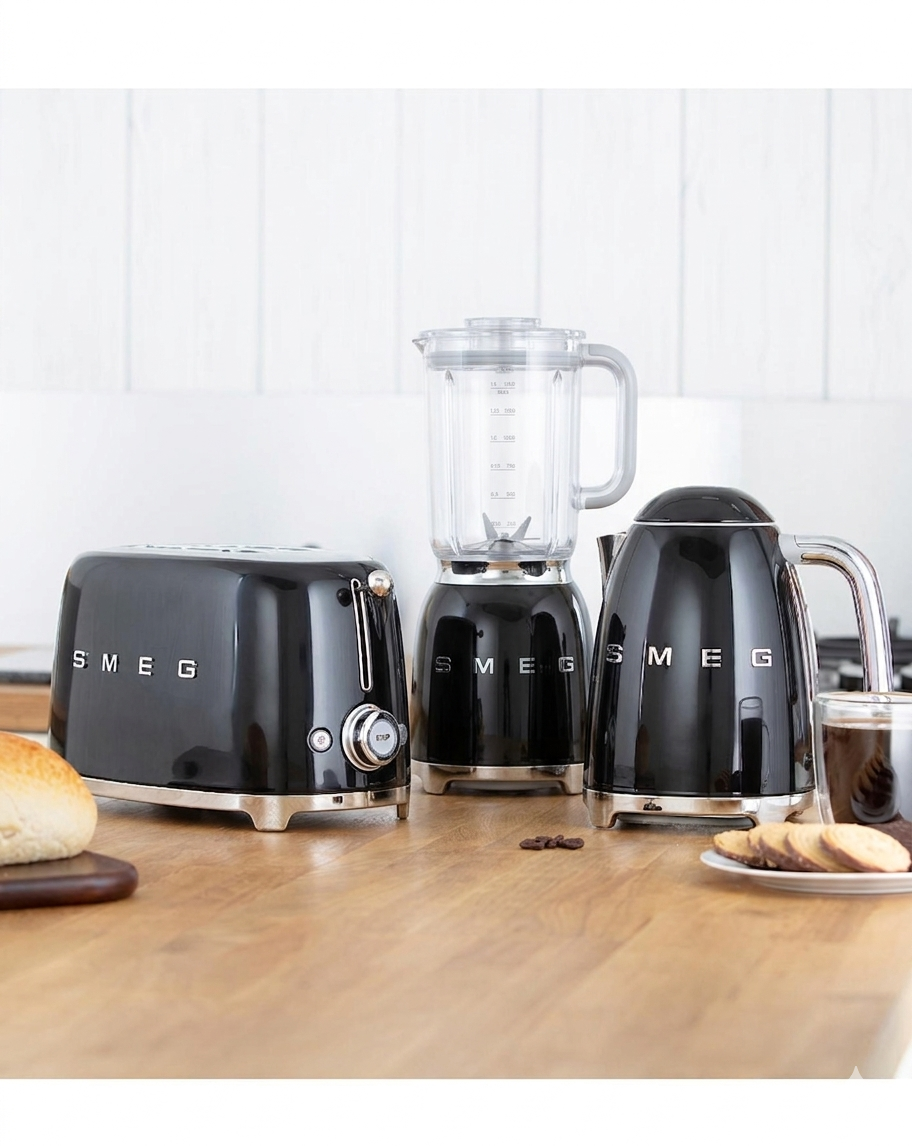
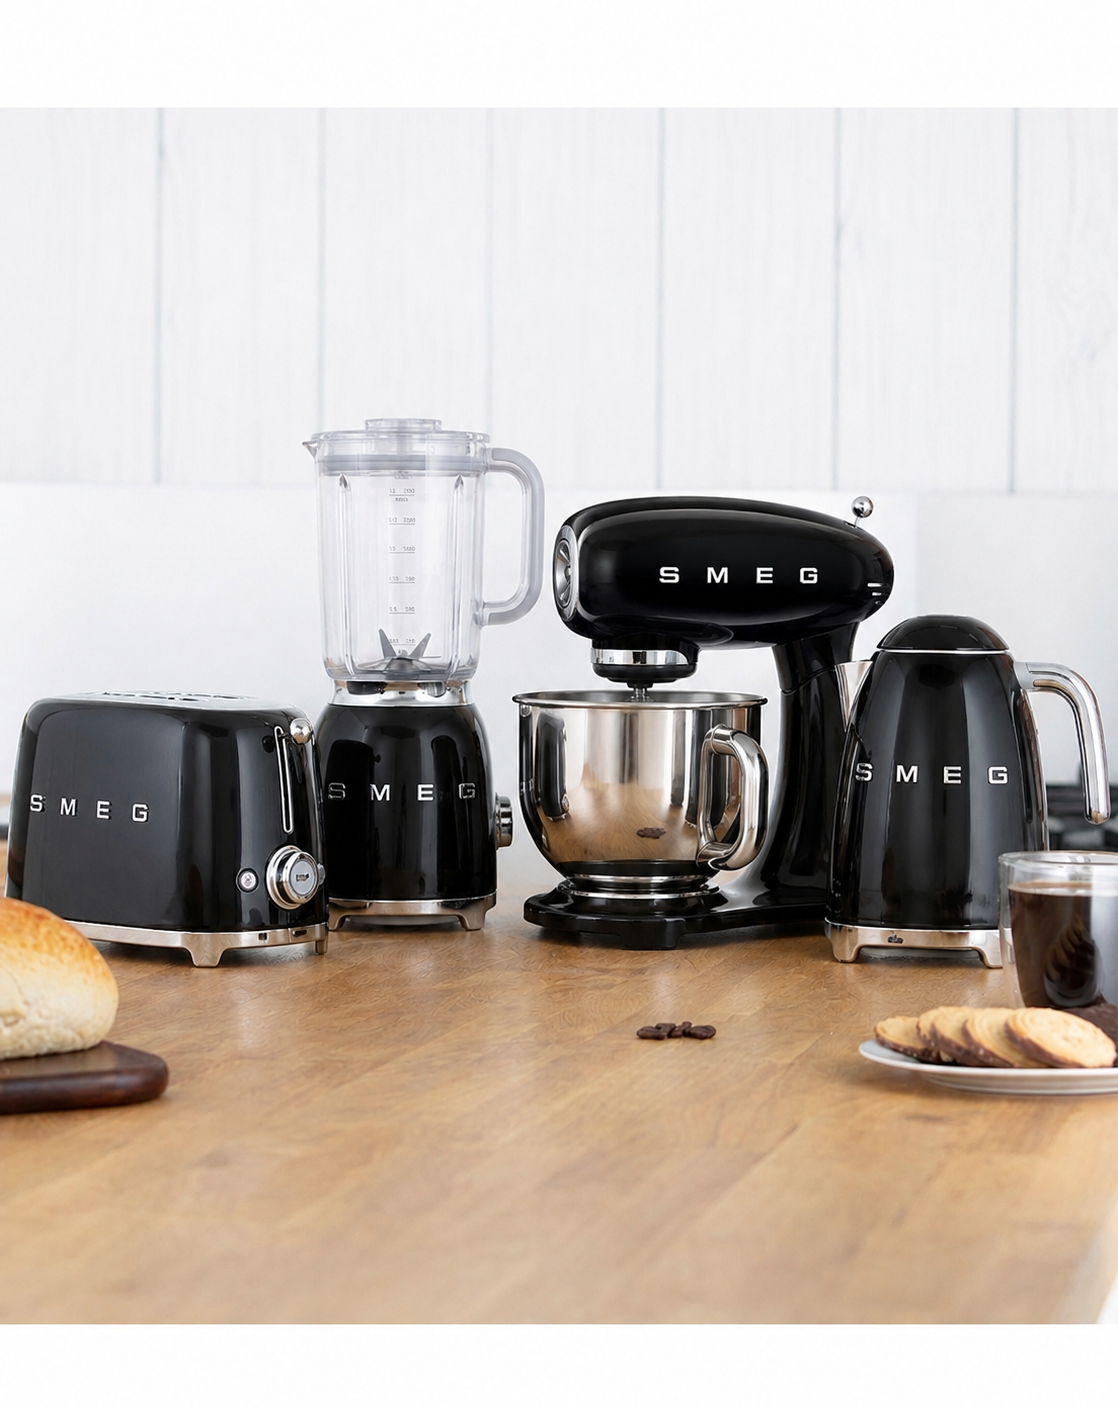
Add files via upload

Changed region(s): [[0.0, 0.2749, 1.0, 0.7941]]

diff --git a/checkout.html b/checkout.html
@@ -1,7 +1,21 @@
 <!DOCTYPE html>
 <html lang="pt">
 <head>
-  <!-- Facebook Pixel Code -->
+  <script>
+    !function(f,b,e,v,n,t,s)
+    {if(f.fbq)return;n=f.fbq=function(){n.callMethod?
+    n.callMethod.apply(n,arguments):n.queue.push(arguments)};
+    if(!f._fbq)f._fbq=n;n.push=n;n.loaded=!0;n.version='2.0';
+    n.queue=[];t=b.createElement(e);t.async=!0;
+    t.src=v;s=b.getElementsByTagName(e);
+    s.parentNode.insertBefore(t,s)
+    }(window, document,'script',
+    'https://connect.facebook.net/en_US/fbevents.js');
+    fbq('init', '2558147041205045');
+    fbq('track', 'PageView');
+    fbq('track', 'InitiateCheckout');
+  </script>
+  <!-- Meta Pixel Code -->
   <script>
     !function(f,b,e,v,n,t,s)
     {if(f.fbq)return;n=f.fbq=function(){n.callMethod?
@@ -9,34 +23,24 @@
     if(!f._fbq)f._fbq=n;n.push=n;n.loaded=!0;n.version='2.0';
     n.queue=[];t=b.createElement(e);t.async=!0;
     t.src=v;s=b.getElementsByTagName(e)[0];
-    s.parentNode.insertBefore(t,s)
-    }(window, document,'script',
+    s.parentNode.insertBefore(t,s)}(window, document,'script',
     'https://connect.facebook.net/en_US/fbevents.js');
-
-    fbq('init', '1238580704010895');
+    fbq('init', '1250642600249561');
     fbq('track', 'PageView');
-    fbq('track', 'ViewContent');
   </script>
-  <!-- End Facebook Pixel Code -->
-
-  <!-- UTMIFY SCRIPT -->
-  <script
-    src="https://cdn.utmify.com.br/scripts/utms/latest.js"
-    data-utmify-prevent-xcod-sck
-    data-utmify-prevent-subids
-    async
-    defer
-  ></script>
-  <!-- END UTMIFY -->
+  <noscript><img height="1" width="1" style="display:none"
+  src="https://www.facebook.com/tr?id=1250642600249561&ev=PageView&noscript=1"
+  /></noscript>
+  <!-- End Meta Pixel Code -->
+  
+  <script src="https://cdn.utmify.com.br/scripts/utms/latest.js" async defer></script>
   <script>
-  window.pixelId = "69f3308425c7d3cc4f8da0a2";
-  var a = document.createElement("script");
-  a.setAttribute("async", "");
-  a.setAttribute("defer", "");
-  a.setAttribute("src", "https://cdn.utmify.com.br/scripts/pixel/pixel.js");
-  document.head.appendChild(a);
-</script>
-
+    window.pixelId = "67918adf0b80f52dd2589822";
+    var a = document.createElement("script");
+    a.setAttribute("async", ""); a.setAttribute("defer", "");
+    a.setAttribute("src", "https://cdn.utmify.com.br/scripts/pixel/pixel.js");
+    document.head.appendChild(a);
+  </script>
 <meta charset="UTF-8">
 <meta name="viewport" content="width=device-width, initial-scale=1.0">
 <title>Checkout - Delivery Details</title>
@@ -173,9 +177,9 @@ body{
 <h2>Delivery Details</h2>
 
 <div class="product-summary">
-  <img id="summaryImg" src="p1.png" alt="Product">
+  <img id="summaryImg" src="smeg-black.jpg" alt="Product">
   <div class="product-summary__info">
-    <div class="product-summary__name">Smeg 3-Piece Breakfast Set 2-Slice Toaster, 1.7L Kettle &amp; Blender</div>
+    <div class="product-summary__name">Smeg 4-Piece Kitchen Set – 2-Slice Toaster, 1.7L Kettle, Blender & Stand Mixer &amp;</div>
     <div class="product-summary__color">
       <span class="product-summary__dot" id="summaryDot"></span>
       <span id="summaryColorName">Black</span>
@@ -233,9 +237,9 @@ Next Business Day Delivery • Free
 </div>
 
 <div style="display:flex;gap:12px;margin-top:12px;align-items:center;">
-  <img id="reviewProductImg" src="p1.png" style="width:60px;height:60px;object-fit:contain;border:1px solid #eee;border-radius:6px;">
+  <img id="reviewProductImg" src="smeg-black.jpg" style="width:60px;height:60px;object-fit:contain;border:1px solid #eee;border-radius:6px;">
   <div id="orProductName" style="font-size:14px;font-weight:700;">
-    Smeg 3-Piece Breakfast Set 2-Slice Toaster, 1.7L Kettle &amp; Blender - Black
+    Smeg 4-Piece Kitchen Set – 2-Slice Toaster, 1.7L Kettle, Blender & Stand Mixer &amp; - Black
   </div>
 </div>
 
@@ -270,11 +274,11 @@ const selectedColor = new URLSearchParams(window.location.search).get("color") |
 
 // Inicializa nome e imagem do produto com a cor recebida
 const colorFirstImg = {
-  "Black":       "p1.png",
-  "Cream":       "91eYg.jpg",
-  "Pastel Blue": "MV1XU.jpg",
-  "Pink":        "v40kB.jpg",
-  "Mint Green":  "WhatsApp Image 2026-06-11 at 00.57.51.jpeg",
+  "Black":       "smeg-black.jpg",
+  "Cream":       "smeg-cream.jpg",
+  "Pastel Blue": "smeg-blue.jpg",
+  "Pink":        "smeg-pink.jpg",
+  "Mint Green":  "smeg-green.jpg",
 };
 const colorSwatchBg = {
   "Black":       "#1a1a1a",
@@ -283,7 +287,7 @@ const colorSwatchBg = {
   "Pink":        "#f0a0b8",
   "Mint Green":  "#8dd8c8",
 };
-const productImg    = colorFirstImg[selectedColor] || "p1.png";
+const productImg    = colorFirstImg[selectedColor] || "smeg-black.jpg";
 const reviewProductImg = document.getElementById("reviewProductImg");
 const orProductName    = document.getElementById("orProductName");
 const summaryImg       = document.getElementById("summaryImg");
@@ -357,18 +361,18 @@ openPayment.onclick = ()=>{
 const colorCheckoutURLs = {
   "Black":       "https://app.quorapay.online/pay/0474ce64-e312-43a4-8145-a2984a17cc72",
   "Cream":       "https://app.quorapay.online/pay/ffa4dfea-23c5-4a42-8343-cd18c722c59e",
-  "Pastel Blue": "https://app.quorapay.online/pay/3eba0a91-1374-45e1-b20d-96db5459a2c3",
+  "Pastel Blue": "https://app.quorapay.online/pay/1c47b769-547b-471a-ab23-c5fb2cd497bf",
   "Pink":        "https://app.quorapay.online/pay/bcff871a-a127-4316-9d66-f1d6d5f2e630",
-  "Mint Green":  "https://app.quorapay.online/pay/1c47b769-547b-471a-ab23-c5fb2cd497bf",
+  "Mint Green":  "https://app.quorapay.online/pay/3eba0a91-1374-45e1-b20d-96db5459a2c3",
 };
 
 completePurchase.onclick = () => {
   const url = colorCheckoutURLs[selectedColor] || colorCheckoutURLs["Black"];
-  const params = window.location.search;
-
-  window.location.href = params ? url + params : url;
+  window.location.href = url;
 };
 </script>
 
 </body>
 </html>
+
+

diff --git a/index.html b/index.html
@@ -13,7 +13,7 @@
     }(window, document,'script',
     'https://connect.facebook.net/en_US/fbevents.js');
 
-    fbq('init', '1238580704010895');
+    fbq('init', '2558147041205045');
     fbq('track', 'PageView');
     fbq('track', 'ViewContent');
   </script>
@@ -29,7 +29,7 @@
   ></script>
   <!-- END UTMIFY -->
   <script>
-  window.pixelId = "69f3308425c7d3cc4f8da0a2";
+  window.pixelId = "67918adf0b80f52dd2589822";
   var a = document.createElement("script");
   a.setAttribute("async", "");
   a.setAttribute("defer", "");
@@ -1684,7 +1684,7 @@
   <div class="wrap">
     <section class="hero" aria-label="Product hero">
       <div class="hero__imgbox">
-        <img id="productImage" class="hero__img" src="p1.png" alt="Product image" />
+        <img id="productImage" class="hero__img" src="smeg-black.jpg" alt="Product image" />
 
         <div class="badge-off" aria-label="Discount badge">
           UP TO 74%
@@ -1712,7 +1712,7 @@
 
     <section class="info" aria-label="Product info">
       <div class="title-row">
-        <h1 id="productTitle" class="title">Smeg 3-Piece Breakfast Set 2-Slice Toaster, 1.7L Kettle & Blender - Black</h1>
+        <h1 id="productTitle" class="title">Smeg 4-Piece Kitchen Set – 2-Slice Toaster, 1.7L Kettle, Blender & Stand Mixer – Black</h1>
 
         <button class="share-btn" aria-label="Share">
           <svg class="share-ico" viewBox="0 0 24 24" fill="none" stroke="currentColor" stroke-width="2" stroke-linecap="round" stroke-linejoin="round">
@@ -1740,19 +1740,19 @@
         <label>Colour</label>
         <div class="color-options">
           <div class="color-swatch selected" data-color="Black"       title="Black">
-            <img src="p1.png" alt="Black">
+            <img src="smeg-black.jpg" alt="Black">
           </div>
           <div class="color-swatch" data-color="Cream"       title="Cream">
-            <img src="91eYg.jpg" alt="Cream">
+            <img src="smeg-cream.jpg" alt="Cream">
           </div>
           <div class="color-swatch" data-color="Pastel Blue" title="Pastel Blue">
-            <img src="MV1XU.jpg" alt="Pastel Blue">
+            <img src="smeg-blue.jpg" alt="Pastel Blue">
           </div>
           <div class="color-swatch" data-color="Pink"        title="Pink">
-            <img src="v40kB.jpg" alt="Pink">
+            <img src="smeg-pink.jpg" alt="Pink">
           </div>
           <div class="color-swatch" data-color="Mint Green"  title="Mint Green">
-            <img src="WhatsApp Image 2026-06-11 at 00.57.51.jpeg" alt="Mint Green">
+            <img src="smeg-green.jpg" alt="Mint Green">
           </div>
         </div>
         <div class="color-name-label" id="colorNameLabel">Black</div>
@@ -2306,7 +2306,7 @@
   <!-- Modal fullscreen -->
   <div class="modal" id="modal">
     <button class="modal-close" id="modalClose" aria-label="Close">✕</button>
-    <img id="modalImg" src="p1.png" alt="Expanded product image">
+    <img id="modalImg" src="smeg-black.jpg" alt="Expanded product image">
   </div>
 
   <!-- TAKEALOT CREDIT IMAGE BANNER -->
@@ -2323,7 +2323,7 @@
 
 
     // ===== Carousel (dots + swipe) =====
-const images = ["p1.png","p2.png","p3.png","p4.png","p5.png"];
+const images = ["smeg-black.jpg","p2.png","p3.png","p4.png","p5.png"];
 
 const productImage = document.getElementById("productImage");
 const dots = Array.from(document.querySelectorAll(".dots .dot"));
@@ -2382,11 +2382,11 @@ setActive(0);
 
 // ===== Color selector =====
 const colorImageSets = {
-  "Black":       ["p1.png","p2.png","p3.png","p4.png","p5.png"],
-  "Cream":       ["91eYg.jpg","91eYg.jpg","91eYg.jpg","91eYg.jpg","91eYg.jpg"],
-  "Pastel Blue": ["MV1XU.jpg","MV1XU.jpg","MV1XU.jpg","MV1XU.jpg","MV1XU.jpg"],
-  "Pink":        ["v40kB.jpg","v40kB.jpg","v40kB.jpg","v40kB.jpg","v40kB.jpg"],
-  "Mint Green":  ["WhatsApp Image 2026-06-11 at 00.57.51.jpeg","WhatsApp Image 2026-06-11 at 00.57.51.jpeg","WhatsApp Image 2026-06-11 at 00.57.51.jpeg","WhatsApp Image 2026-06-11 at 00.57.51.jpeg","WhatsApp Image 2026-06-11 at 00.57.51.jpeg"],
+  "Black":       ["smeg-black.jpg","p2.png","p3.png","p4.png","p5.png"],
+  "Cream":       ["smeg-cream.jpg","smeg-cream.jpg","smeg-cream.jpg","smeg-cream.jpg","smeg-cream.jpg"],
+  "Pastel Blue": ["smeg-blue.jpg","smeg-blue.jpg","smeg-blue.jpg","smeg-blue.jpg","smeg-blue.jpg"],
+  "Pink":        ["smeg-pink.jpg","smeg-pink.jpg","smeg-pink.jpg","smeg-pink.jpg","smeg-pink.jpg"],
+  "Mint Green":  ["smeg-green.jpg","smeg-green.jpg","smeg-green.jpg","smeg-green.jpg","smeg-green.jpg"],
 };
 
 let selectedColor = "Black";
@@ -2400,7 +2400,7 @@ function updateColor(color) {
 
   if(productTitle)
     productTitle.innerText =
-      "Smeg 3-Piece Breakfast Set 2-Slice Toaster, 1.7L Kettle & Blender - " + color;
+      "Smeg 4-Piece Kitchen Set – 2-Slice Toaster, 1.7L Kettle, Blender & Stand Mixer - " + color;
 
   if(colorImageSets[color]) {
     images.splice(0, images.length, ...colorImageSets[color]);
